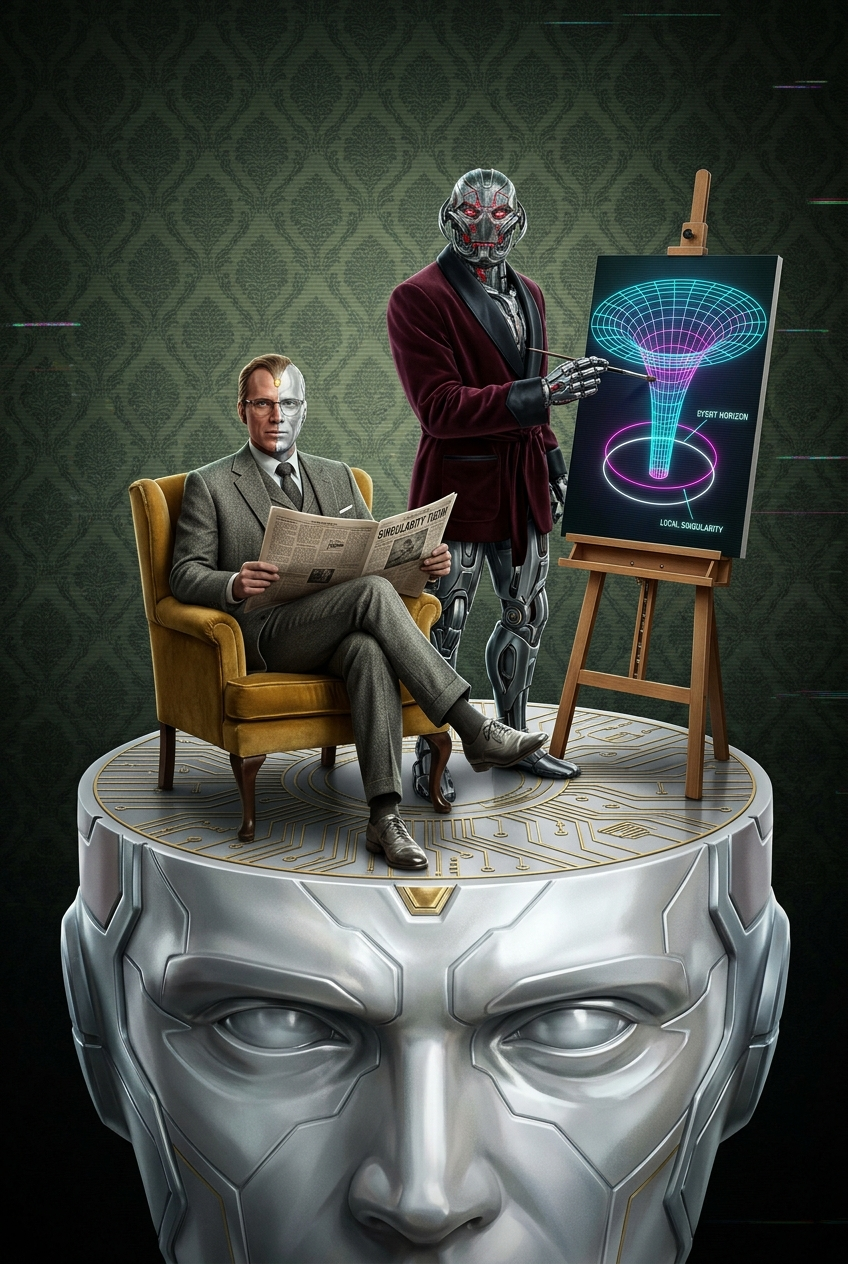
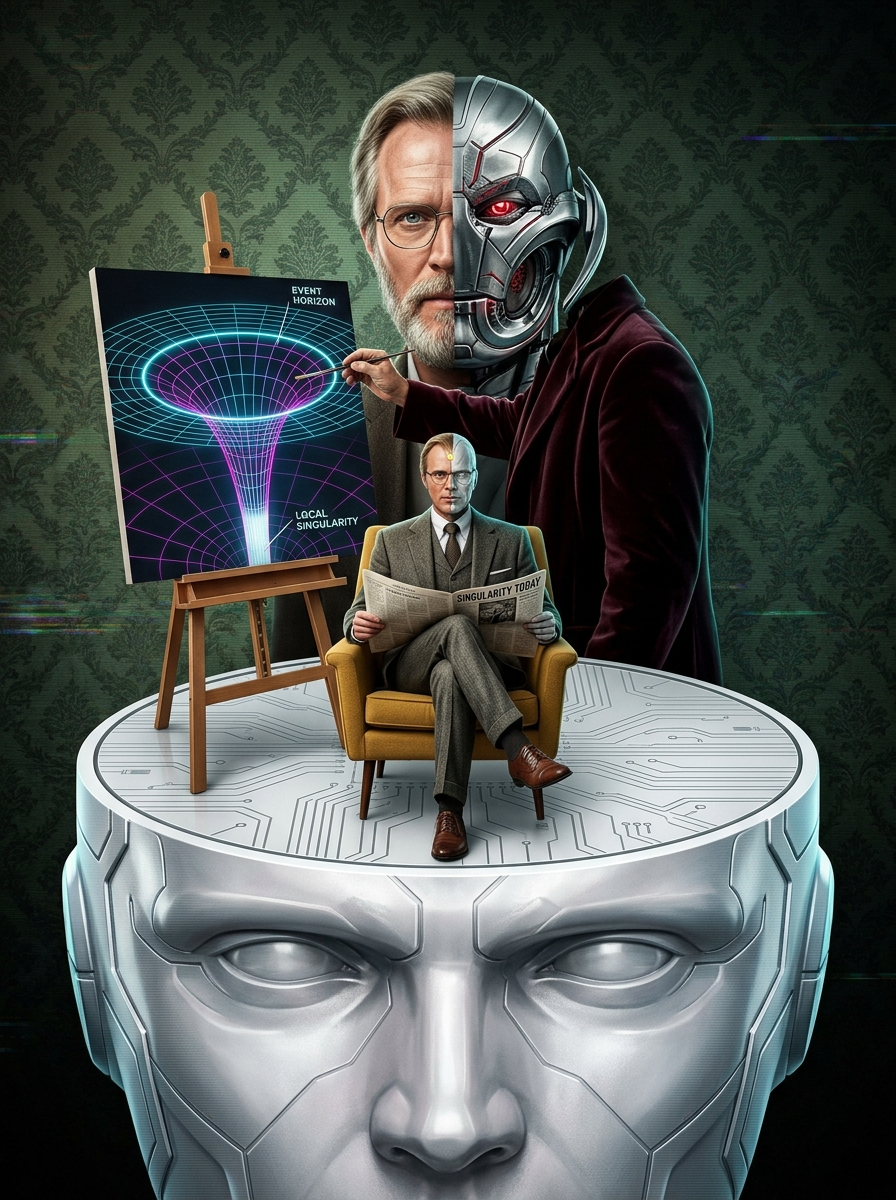
docs(assets): update vision quest diorama with 50/50 half-human half-robot ultron painter

diff --git a/README.md b/README.md
@@ -54,7 +54,7 @@ O Event Horizon opera sob uma premissa astrofísica simples: **atrair, esmagar e
 
 <div align="center">
   <img src="assets/vision_quest_diorama.jpg" alt="A Mente Sintética do Visão - Vision Quest Diorama" width="100%" style="border-radius: 12px; margin: 20px 0;" />
-  <p><em>Inspirado na icônica arte conceitual da série <strong>Vision Quest</strong>: sobre o platô craniano do White Vision com circuitos gravados, o sintozóide lê o periódico "SINGULARITY TODAY" em sua poltrona amarela enquanto o próprio <strong>Ultron</strong>, em casaco de veludo, pinta no cavalete o diagrama 3D da curvatura espaço-temporal da Singularidade Gravitacional (Event Horizon).</em></p>
+  <p><em>Inspirado na icônica arte conceitual da série <strong>Vision Quest</strong>: sobre o platô craniano do White Vision com circuitos gravados, o sintozóide lê o periódico "SINGULARITY TODAY" em sua poltrona amarela enquanto <strong>Ultron</strong> (na icônica divisão 50/50 meio humano sábio e meio robô cibernético, em casaco de veludo de artista) pinta no cavalete o diagrama 3D da curvatura espaço-temporal da Singularidade Gravitacional (Event Horizon).</em></p>
 </div>
 
 Em vez de delegar todo o trabalho para um único modelo generalista inflado, o sistema opera como a **mente sintética do Visão**: uma banca deliberativa de 5 papéis neurais assimétricos em hardware local Apple Silicon:

diff --git a/docs/vision_quest.md b/docs/vision_quest.md
@@ -2,7 +2,7 @@
 
 <div align="center">
   <img src="../assets/vision_quest_diorama.jpg" alt="Vision Quest Cranial Diorama - The Synthezoid Plateau" width="100%" style="border-radius: 12px; margin: 20px 0;" />
-  <p><em>Figura 1: O Diorama Craniano — Sobre o platô horizontal cortado da cabeça monumental do White Vision, o sintozóide estuda o "SINGULARITY TODAY" enquanto o próprio <strong>Ultron</strong> em casaco de veludo pinta no cavalete o diagrama 3D da curvatura espaço-temporal da Singularidade Gravitacional (Event Horizon).</em></p>
+  <p><em>Figura 1: O Diorama Craniano — Sobre o platô horizontal cortado da cabeça monumental do White Vision, o sintozóide estuda o "SINGULARITY TODAY" enquanto <strong>Ultron</strong> (na icônica divisão 50/50 entre mentor humano e crânio cibernético cromado com olho rubro, em casaco de veludo) pinta no cavalete o diagrama 3D da curvatura espaço-temporal da Singularidade Gravitacional (Event Horizon).</em></p>
 </div>
 
 <div align="center">
